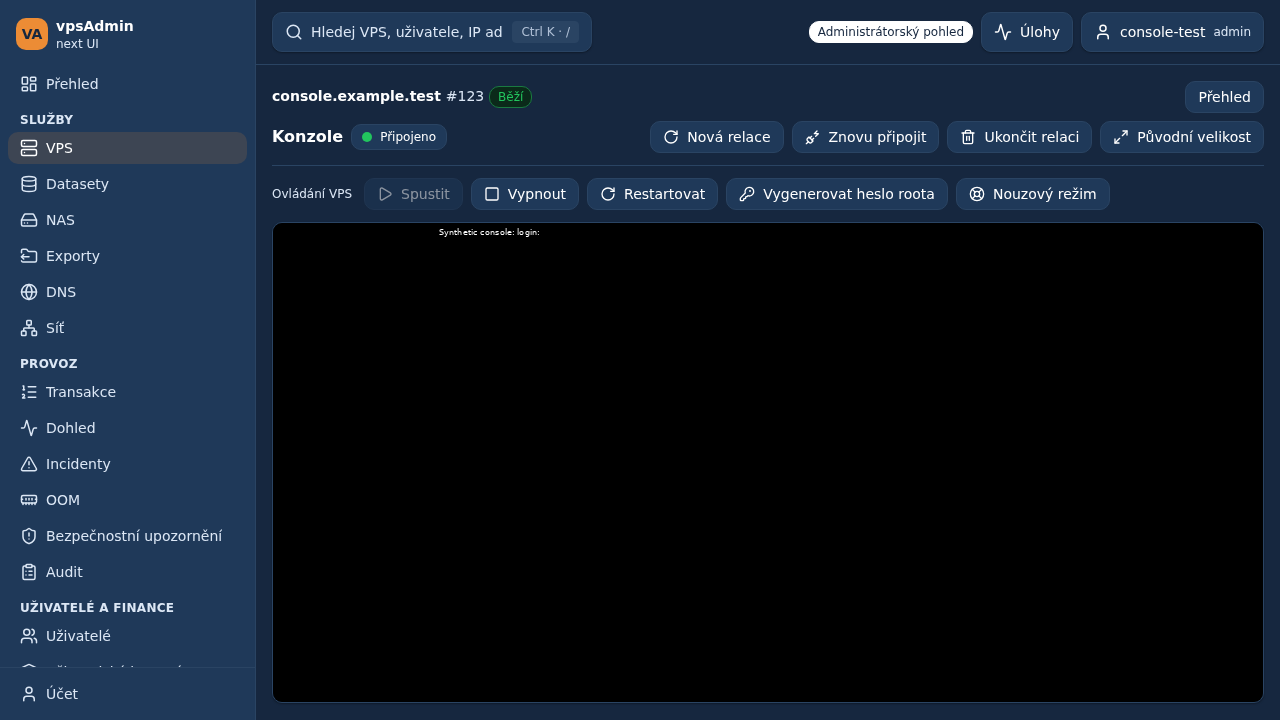
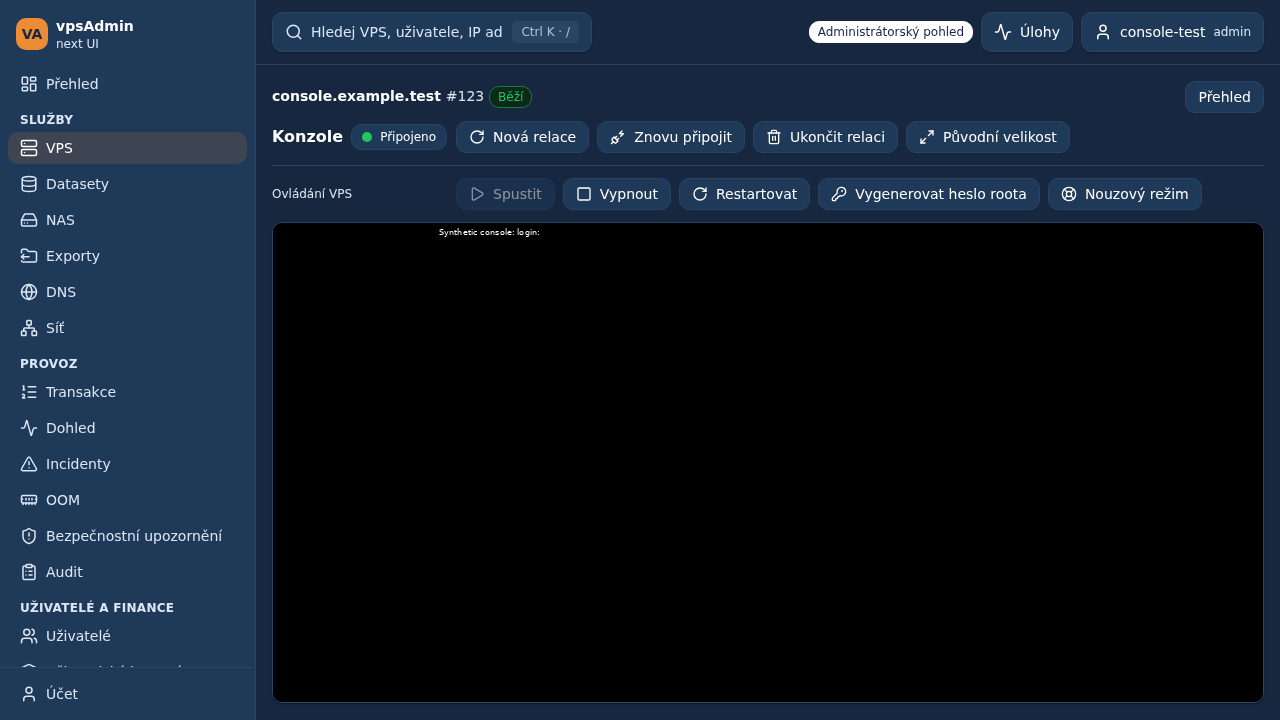
webui: align console session and VPS controls
Use matching label columns so both button rows begin at the same
position, with stacked labels on mobile. Verify their alignment and
refresh the synthetic review screenshots.

Changed region(s): [[0.3438, 0.1528, 1.0, 0.2139], [0.375, 0.2444, 0.9375, 0.3056], [0.3125, 0.2444, 0.3438, 0.275]]

diff --git a/src/pages/app/vps/VpsConsoleControls.tsx b/src/pages/app/vps/VpsConsoleControls.tsx
@@ -38,43 +38,45 @@ export function VpsConsoleControls(props: {
   if (!canMutateVps) return null;
   return (
     <div
-      className="flex flex-wrap items-center gap-2 border-t border-border pt-3"
+      className="grid items-start gap-2 border-t border-border pt-3 sm:grid-cols-[11rem_minmax(0,1fr)]"
       data-testid="vps.console.controls"
       role="group"
       aria-label={t('vps.console.controls')}
     >
-      <span className="mr-1 text-xs font-medium text-muted">{t('vps.console.controls')}</span>
-      {actions.map(({ id, label, Icon, gate, run }) => (
+      <span className="flex items-center text-xs font-medium text-muted sm:min-h-8">{t('vps.console.controls')}</span>
+      <div className="flex min-w-0 flex-wrap items-center gap-2">
+        {actions.map(({ id, label, Icon, gate, run }) => (
+          <ActionButton
+            key={id}
+            size="sm"
+            variant="secondary"
+            testId={`vps.console.control.${id}`}
+            disabled={!gate.allowed}
+            disabledReason={!gate.allowed ? gate.reason : undefined}
+            onClick={run}
+          >
+            <Icon className="h-4 w-4" aria-hidden="true" />
+            {t(label)}
+          </ActionButton>
+        ))}
         <ActionButton
-          key={id}
           size="sm"
           variant="secondary"
-          testId={`vps.console.control.${id}`}
-          disabled={!gate.allowed}
-          disabledReason={!gate.allowed ? gate.reason : undefined}
-          onClick={run}
+          testId="vps.console.control.rescue"
+          disabled={!supportsRescue || !rescueGate.allowed}
+          disabledReason={
+            !supportsRescue
+              ? { titleKey: 'vps.console.rescue.unsupported' }
+              : !rescueGate.allowed
+                ? rescueGate.reason
+                : undefined
+          }
+          onClick={() => setRescueOpen(true)}
         >
-          <Icon className="h-4 w-4" aria-hidden="true" />
-          {t(label)}
+          <LifeBuoy className="h-4 w-4" aria-hidden="true" />
+          {t('vps.console.rescue.title')}
         </ActionButton>
-      ))}
-      <ActionButton
-        size="sm"
-        variant="secondary"
-        testId="vps.console.control.rescue"
-        disabled={!supportsRescue || !rescueGate.allowed}
-        disabledReason={
-          !supportsRescue
-            ? { titleKey: 'vps.console.rescue.unsupported' }
-            : !rescueGate.allowed
-              ? rescueGate.reason
-              : undefined
-        }
-        onClick={() => setRescueOpen(true)}
-      >
-        <LifeBuoy className="h-4 w-4" aria-hidden="true" />
-        {t('vps.console.rescue.title')}
-      </ActionButton>
+      </div>
       {rescueOpen ? <VpsConsoleRescueDialog onClose={() => setRescueOpen(false)} /> : null}
     </div>
   );

diff --git a/e2e/specs/app/vps_console_controls.spec.ts b/e2e/specs/app/vps_console_controls.spec.ts
@@ -75,6 +75,12 @@ for (const language of ['cs', 'en'] as const) {
     const frame = await iframe.elementHandle();
     await expect(page.getByTestId('vps.console.open_new_tab')).toHaveCount(0);
     await expect(page.getByTestId('vps.console.control.start')).toHaveAttribute('aria-disabled', 'true');
+    const sessionButton = await page.getByTestId('vps.console.new_session').boundingBox();
+    const powerButton = await page.getByTestId('vps.console.control.start').boundingBox();
+    expect(sessionButton).not.toBeNull();
+    expect(powerButton).not.toBeNull();
+    expect(Math.abs(sessionButton!.x - powerButton!.x)).toBeLessThanOrEqual(1);
+    expect(powerButton!.y).toBeGreaterThan(sessionButton!.y + sessionButton!.height);
     await page.screenshot({ path: testInfo.outputPath(`console-controls-${language}.png`), fullPage: true });
     for (const action of ['stop', 'restart'] as const) {
       await activate(page.getByTestId(`vps.console.control.${action}`), hasTouch);

diff --git a/src/pages/app/vps/VpsConsolePage.tsx b/src/pages/app/vps/VpsConsolePage.tsx
@@ -217,8 +217,8 @@ function MutableVpsConsolePage() {
   return (
     <div className="space-y-3" data-testid="vps.console.page">
       <div className="space-y-3">
-        <div className="flex flex-wrap items-center justify-between gap-2">
-          <div className="flex min-w-0 flex-wrap items-center gap-2">
+        <div className="grid items-start gap-2 sm:grid-cols-[11rem_minmax(0,1fr)]">
+          <div className="flex min-w-0 flex-wrap items-center gap-2 sm:min-h-8">
             <h2 className="text-base font-semibold">{t('vps.console.title')}</h2>
             <div
               title={expiresAt ? t('vps.console.expires_at', { time: expiresAt }) : undefined}

diff --git a/docs/design/REQUIREMENTS.md b/docs/design/REQUIREMENTS.md
@@ -41,7 +41,7 @@ The Acceptance column describes what must be checked, not a claim it all passed.
 | REQ-017 | Provide one resource workspace including root dataset capacity. | CPU/memory/swap and disk reachable together; separate API mutations/reviews remain explicit, no false atomic save. | U; [PR505](https://github.com/Kerrycek/clankerdev/pull/505), [fixture](../../e2e/specs/app/vps_resource_workspace.spec.ts) | Delivered |
 | REQ-018 | Expose legacy administrator allocation overrides. | Admin can explicitly bypass allocation checks where API supports it; member cannot; VPS and dataset requests use actual contract. | U; [PR503](https://github.com/Kerrycek/clankerdev/pull/503) | Delivered |
 | REQ-019 | Preserve edited resources when asynchronous defaults arrive. | Late default lookup cannot overwrite edits; resulting request matches reviewed values. | P; [PR498](https://github.com/Kerrycek/clankerdev/pull/498) | Delivered |
-| REQ-020 | Open the console directly and show terminal plus keyboard without page scrolling. | Compact console header plus a second VPS action row (power, root password and rescue) without a new-tab action; retain the session while dialogs open. Fit the complete pinned renderer to the window, with explicit Original size. Bounded/deduplicated token requests and explicit revoke/replacement safeguards remain. | U; [PR517](https://github.com/Kerrycek/clankerdev/pull/517), [fixture](../../e2e/specs/app/vps_console_page.spec.ts), [viewport change](../work-log/2026-09-30-console-viewport.md) | Delivered: autostart retained and viewport follow-up in PR4; [release 718cf759](../work-log/2026-09-30-three-site-release.md); [console action row prepared](../work-log/2026-10-09-console-vps-controls.md) |
+| REQ-020 | Open the console directly and show terminal plus keyboard without page scrolling. | Left-aligned console session and VPS action rows with a shared label column on desktop and stacked labels on mobile; the second VPS action row (power, root password and rescue) without a new-tab action; retain the session while dialogs open. Fit the complete pinned renderer to the window, with explicit Original size. Bounded/deduplicated token requests and explicit revoke/replacement safeguards remain. | U; [PR517](https://github.com/Kerrycek/clankerdev/pull/517), [fixture](../../e2e/specs/app/vps_console_page.spec.ts), [viewport change](../work-log/2026-09-30-console-viewport.md) | Delivered: autostart retained and viewport follow-up in PR4; [release 718cf759](../work-log/2026-09-30-three-site-release.md); [console action row prepared](../work-log/2026-10-09-console-vps-controls.md) |
 | REQ-021 | Support normal member deletion and explicit admin soft/hard deletion with retention. | Correct permission/endpoint per mode; future expiry only for supported soft transition; hard ignores stale expiry; clear target/receipt. | U; [PR518](https://github.com/Kerrycek/clankerdev/pull/518) | Delivered frontend; dev default retention Open |
 | REQ-022 | Diagnose dev VPS deletion failure without duplicating an uncertain operation. | Read receipt/API state first; configure missing retention only after policy decision; do not mistake request accepted for completed deletion. | U; [contracts](API_CONTRACTS.md) | Open configuration decision |
 | REQ-023 | Keep VPS creation and power/access/network/maintenance operations available with safeguards. | Open the created VPS detail as soon as the API accepts creation, show pending/completed/failed/unknown status, refresh automatically and retain owner context and mutation locks. Confirm actual target and implications, honor role/state locks, show failure and successful action state; preserve draft on rejection. | C/P; [VPS adapters](../../src/lib/api/vps.ts), [PR458](https://github.com/Kerrycek/clankerdev/pull/458) | Baseline; accepted-creation detail follow-up delivered in PR7; real lifecycle certification remains separate; [release 718cf759](../work-log/2026-09-30-three-site-release.md) |

diff --git a/docs/work-log/2026-10-09-console-vps-controls.md b/docs/work-log/2026-10-09-console-vps-controls.md
@@ -71,3 +71,23 @@ GitHub CI and maintainer review remain separate from this local/pinned evidence.
 
 Prepared for review as [PR35](https://github.com/vpsfreecz/vpsadmin-webui/pull/35),
 implementation commit `91e4394`. Not merged or deployed.
+
+## Toolbar alignment follow-up
+
+The maintainer found the right-aligned session buttons inconsistent with the
+left-aligned VPS controls. Both rows now use the same desktop label column;
+their button groups start at the same horizontal position and wrap independently.
+On small screens the labels stack above the buttons, preserving full available
+width and touch targets. Session state, actions and confirmation behavior are
+unchanged. The existing Czech/English controls scenarios now check alignment
+geometrically, and the desktop/mobile review screenshots above are refreshed.
+
+Verification of this layout follow-up is recorded below. This remains part of
+PR35 and has not been merged or deployed.
+
+Follow-up verification passed: all 24 controls and viewport scenarios across
+desktop Chromium, mobile Chromium and mobile WebKit (Czech/English), frontend
+and strict E2E type checks, ESLint for both components, Tailwind and structural
+audits, design-documentation audit, and production build. The existing chunk-size
+warning remains informational. These are isolated synthetic browser tests; no
+public deployment or real VPS operation was performed.
